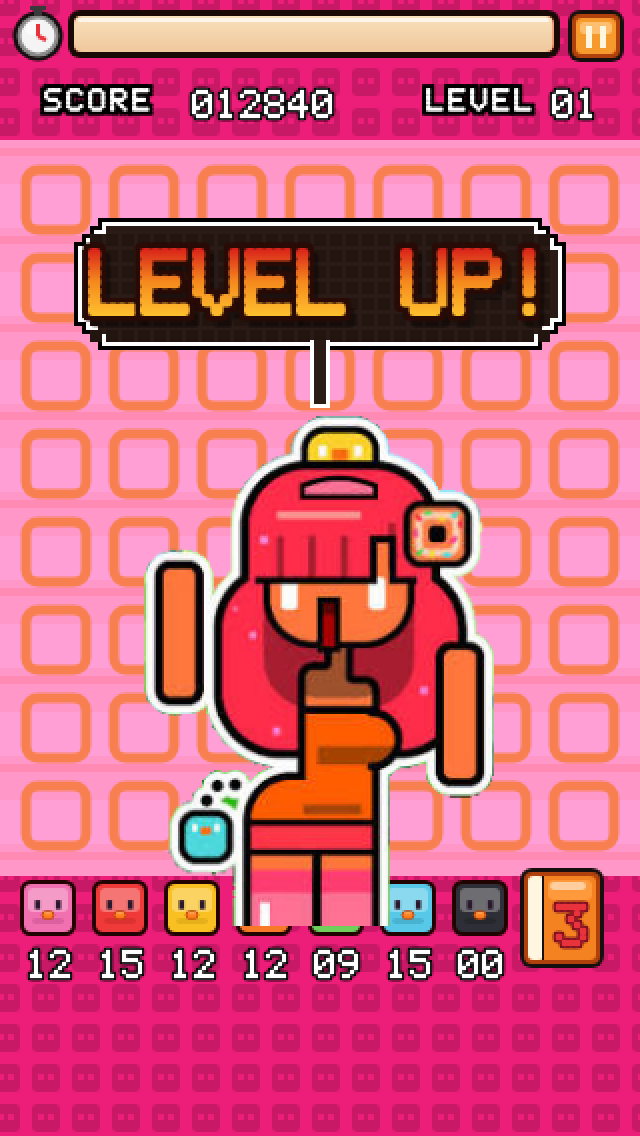
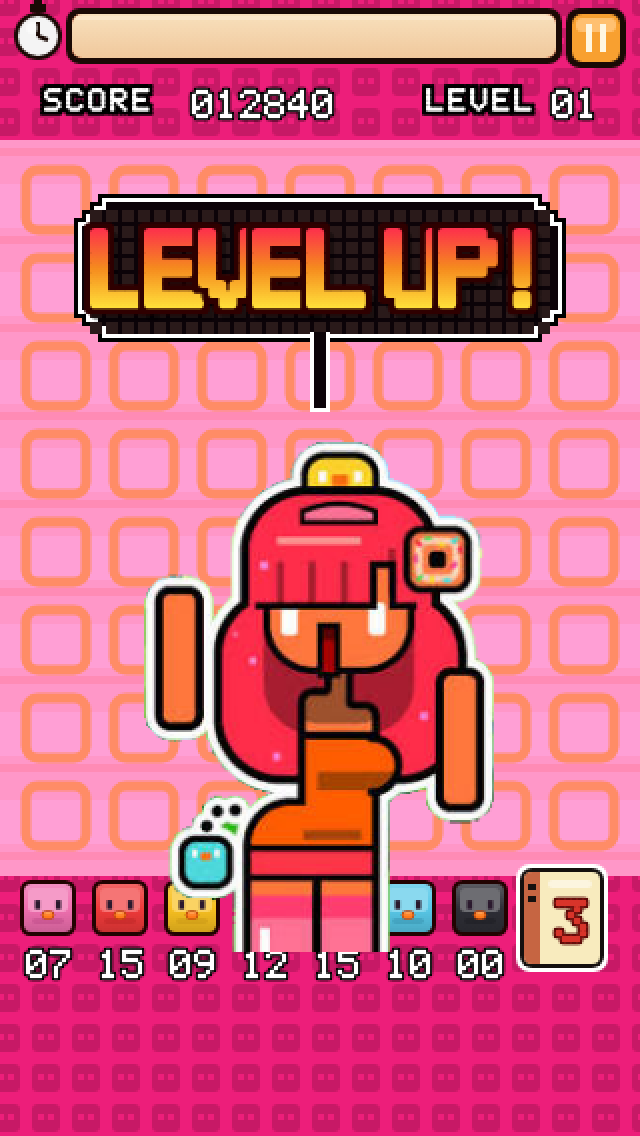
Critic round 5: book, stopwatch, timer weight, face gradients, bold LEVEL UP, disco bloom and HUD

diff --git a/index.html b/index.html
@@ -73,13 +73,15 @@ function drawTextO(s,x,y,sc,col,out,align,ol,shadow){ // outlined text (ol = out
 function goldGrad(y,h){ const g=ctx.createLinearGradient(0,y,0,y+h); g.addColorStop(0,'#ffe14d'); g.addColorStop(1,'#f7941d'); return g; }
 function splitGrad(y,h){ const g=ctx.createLinearGradient(0,y,0,y+h); g.addColorStop(0,'#FFD23A'); g.addColorStop(0.5,'#FFD23A'); g.addColorStop(0.5,'#F08A1E'); g.addColorStop(1,'#F08A1E'); return g; }
 function rrp(x,y,w,h,r){ ctx.moveTo(x+r,y); ctx.arcTo(x+w,y,x+w,y+h,r); ctx.arcTo(x+w,y+h,x,y+h,r); ctx.arcTo(x,y+h,x,y,r); ctx.arcTo(x,y,x+w,y,r); ctx.closePath(); }
-function glyphCells(ch,x,y,sc){ const g=FONT[ch]; if(!g) return; for(let r=0;r<FH;r++){ const row=g[r]; for(let c=0;c<5;c++) if(row[c]==='#') rrp(x+c*sc,y+r*sc,1.4*sc,1.4*sc,sc*0.5); } }
+let GLYPH_CELL=1.4;
+function glyphCells(ch,x,y,sc){ const g=FONT[ch]; if(!g) return; const k=GLYPH_CELL; for(let r=0;r<FH;r++){ const row=g[r]; for(let c=0;c<5;c++) if(row[c]==='#') rrp(x+c*sc,y+r*sc,k*sc,k*sc,sc*0.5); } }
 function chunkyText(str,x,y,sc,adv,align,arc,fill,opts){ // bubbly letters, each layered over the previous so they stay legible
-  opts=opts||{};
-  str=String(str).toUpperCase(); const gw=5.4*sc, gh=7.4*sc; const w=str.length*adv-(adv-gw);
+  opts=opts||{}; GLYPH_CELL=opts.bold?1.75:1.4;
+  str=String(str).toUpperCase(); const gw=(4+GLYPH_CELL)*sc, gh=(6+GLYPH_CELL)*sc; const spaces=(str.match(/ /g)||[]).length; const sp=opts.spaceAdv!==undefined?opts.spaceAdv:adv; const w=(str.length-spaces)*adv+spaces*sp-(adv-gw);
   if(align==='center') x=Math.round(x-w/2); else if(align==='right') x=Math.round(x-w);
+  const xs=[]; let cx0=x; for(let i=0;i<str.length;i++){ xs.push(cx0); cx0+=str[i]===' '?sp:adv; }
   const ob=Math.max(2,sc*0.55), ow=Math.max(1,sc*0.28);
-  for(let i=0;i<str.length;i++){ const ch=str[i]; if(ch===' ') continue; const xx=x+i*adv, yy=y-(arc?Math.sin((i+0.5)/str.length*Math.PI)*arc:0);
+  for(let i=0;i<str.length;i++){ const ch=str[i]; if(ch===' ') continue; const xx=xs[i], yy=y-(arc?Math.sin((i+0.5)/str.length*Math.PI)*arc:0);
     const ring=(off,col,dx0,dy0)=>{ ctx.fillStyle=col; ctx.beginPath(); for(let dx=-1;dx<=1;dx++)for(let dy=-1;dy<=1;dy++) glyphCells(ch,xx+dx*off+dx0,yy+dy*off+dy0,sc); ctx.fill(); };
     if(opts.shadow!==false) ring(ob*0.7,'rgba(0,0,0,0.35)',3,4);   // drop shadow
     ring(ob,opts.dark||'#2A0A00',0,0);                               // dark outline
@@ -88,6 +90,7 @@ function chunkyText(str,x,y,sc,adv,align,arc,fill,opts){ // bubbly letters, each
     ctx.fillStyle=f; ctx.beginPath(); glyphCells(ch,xx,yy,sc); ctx.fill();
     if(!opts.noGloss){ ctx.save(); ctx.beginPath(); glyphCells(ch,xx,yy,sc); ctx.clip(); ctx.fillStyle='rgba(255,255,255,0.5)'; ctx.fillRect(xx-2,yy,gw+4,sc*1.1); ctx.restore(); } // highlight line
   }
+  GLYPH_CELL=1.4;
 }
 function mixHex(a,b,t){ const pa=[1,3,5].map(i=>parseInt(a.substr(i,2),16)), pb=[1,3,5].map(i=>parseInt(b.substr(i,2),16)); return '#'+pa.map((v,i)=>Math.round(v+(pb[i]-v)*t).toString(16).padStart(2,'0')).join(''); }
 function vgrad(y,h,stops){ const g=ctx.createLinearGradient(0,y,0,y+h); stops.forEach((c,i)=>g.addColorStop(i/(stops.length-1),c)); return g; }
@@ -111,9 +114,9 @@ const TYPES=[
 ];
 const NINJA=7, NCOL=7;
 const DISCO_RING=['#FF5CD0','#FF3838','#4C3FFF','#FFA030','#5CFF5C','#48E8FF','#B060FF','#9a9aa8'];
-const DISCO_FILL=['#8A1E6E','#7A0808','#2A1AA0','#8A4012','#0E4014','#123E5A','#3A1060','#1c1c22'];
+const DISCO_FILL=['#5a1440','#4a0606','#141a5a','#3a2004','#0a3a0a','#0a3a4a','#2a0c40','#16161c'];
 function birdFace(s,expr,neon,col){
-  const k=s/40; const ink=neon?mixHex(col,'#ffffff',0.55):'#2b1a2e';
+  const k=s/40; const ink=neon?mixHex(col,'#ffffff',0.85):'#2b1a2e';
   ctx.fillStyle=ink;
   if(expr===1){ ctx.fillRect(-11*k,-3*k,6*k,2*k); ctx.fillRect(5*k,-3*k,6*k,2*k); }               // sleepy - -
   else if(expr===2){ for(const sx of [-8,8]){ ctx.fillRect((sx-3)*k,-2*k,2*k,2*k); ctx.fillRect((sx-1)*k,-4*k,2*k,2*k); ctx.fillRect((sx+1)*k,-2*k,2*k,2*k); } } // happy ^ ^
@@ -128,13 +131,14 @@ function drawBlock(cx,cy,s,t,o){
   const h=s/2, expr=o.expr||0;
   if(o.disco){
     const ring=DISCO_RING[t]||T.c, fill=DISCO_FILL[t]||'#101018';
-    ctx.shadowColor=ring; ctx.shadowBlur=12; ctx.globalAlpha=.6; frr(-h,-h,s,s,6,ring); ctx.globalAlpha=1; ctx.shadowBlur=0;
-    frr(-h,-h,s,s,6,fill);
-    ctx.lineWidth=3; ctx.strokeStyle=ring; rr(-h+1.5,-h+1.5,s-3,s-3,5); ctx.stroke();
+    ctx.shadowColor=ring; ctx.shadowBlur=10; ctx.globalAlpha=.9; frr(-h,-h,s,s,8,ring); ctx.globalAlpha=1; ctx.shadowBlur=0;
+    frr(-h,-h,s,s,8,fill);
+    ctx.lineWidth=7; ctx.strokeStyle=ring; ctx.globalAlpha=.35; rr(-h+1.5,-h+1.5,s-3,s-3,7); ctx.stroke(); ctx.globalAlpha=1;
+    ctx.lineWidth=3; ctx.strokeStyle=ring; rr(-h+1.5,-h+1.5,s-3,s-3,7); ctx.stroke();
     birdFace(s,expr,true,ring);
   } else {
     frr(-h-1,-h-1,s+2,s+2,s*0.2,'#220301'); // 2px outline
-    frr(-h+1,-h+1,s-2,s-2,s*0.14,T.c);       // body
+    frr(-h+1,-h+1,s-2,s-2,s*0.14,vgrad(-h+1,s-2,[mixHex(T.c,'#ffffff',0.22),T.c,mixHex(T.c,'#000000',0.16)])); // body gradient
     frr(-h+3,-h+3,s-6,s*0.46,s*0.1,mixHex(T.c,'#ffffff',0.3)); // lighter face band (top half)
     ctx.globalAlpha=.25; frr(-h+5,h-8,s-10,3,2,T.d); ctx.globalAlpha=1; // soft belly shade
     birdFace(s,expr,false,T.c);
@@ -263,7 +267,8 @@ function makeBg(level,disco){
     const paint=(y0,y1)=>{ c.fillStyle=base; c.fillRect(0,y0,W,y1-y0); c.save(); c.beginPath(); c.rect(0,y0,W,y1-y0); c.clip(); c.fillStyle=tile;
       for(let y=y0-6;y<y1;y+=20)for(let x=-4;x<W;x+=20){ c.beginPath(); c.roundRect?c.roundRect(x,y,14,14,3):c.rect(x,y,14,14); c.fill(); c.fillStyle=base; c.fillRect(x+3,y+5,3,3); c.fillRect(x+8,y+5,3,3); c.fillStyle=tile; } c.restore(); };
     paint(0,BY-8); paint(BY+ROWS*CELL+8,H);
-  } else { c.fillStyle='#0E0A10'; c.beginPath(); c.roundRect?c.roundRect(BX-3,BY-3,COLS*CELL+4,ROWS*CELL+4,7):c.rect(BX-3,BY-3,COLS*CELL+4,ROWS*CELL+4); c.fill(); }
+  } else { const g=c.createLinearGradient(0,0,0,BY-8); g.addColorStop(0,'#0a2870'); g.addColorStop(1,'#052050'); c.fillStyle=g; c.fillRect(0,0,W,BY-8); c.fillStyle='#4bebe3'; c.fillRect(0,BY-10,W,2);
+    c.fillStyle='#0E0A10'; c.beginPath(); c.roundRect?c.roundRect(BX-3,BY-3,COLS*CELL+4,ROWS*CELL+4,7):c.rect(BX-3,BY-3,COLS*CELL+4,ROWS*CELL+4); c.fill(); c.lineWidth=2; c.strokeStyle='#2c2c58'; c.stroke(); }
   return o;
 }
 function cloudPath(x,y,w){ ctx.beginPath(); ctx.arc(x,y,w*0.26,0,Math.PI*2); ctx.arc(x+w*0.3,y-w*0.14,w*0.34,0,Math.PI*2); ctx.arc(x+w*0.64,y-w*0.02,w*0.27,0,Math.PI*2); ctx.rect(x-w*0.05,y,w*0.75,w*0.26); }
@@ -584,7 +589,7 @@ function glossyPanel(x,y,w,h,r,rim,body,top){ // chunky rounded panel: black out
 function cube(x,y,w,h){ // PB2 cube button: 3px outline, hard top band, bottom shade
   frr(x-2,y+5,w+4,h+2,12,'rgba(0,0,0,0.28)');
   frr(x-3,y-3,w+6,h+6,12,'#2A1408');
-  frr(x,y,w,h,9,'#F58A1E');
+  frr(x,y,w,h,9,vgrad(y,h,['#ffb060','#f07a1c']));
   ctx.save(); rr(x,y,w,h,9); ctx.clip(); ctx.fillStyle='#FFB050'; ctx.fillRect(x,y,w,h*0.22); ctx.fillStyle='#C85A10'; ctx.fillRect(x,y+h*0.9,w,h*0.1); ctx.restore();
   ctx.globalAlpha=.4; frr(x+8,y+5,w-16,4,2,'#fff'); ctx.globalAlpha=1;
 }
@@ -600,7 +605,7 @@ function squareBtn(b){
     const gh=7.4*b.gsc, gy=b.y+(b.h-gh)/2+1;
     chunkyText(b.glyph,cx,gy,b.gsc,6*b.gsc+6,'center',0,vgrad(gy,gh,['#FF8A2A','#FF8A2A','#F05A14','#F05A14']),{dark:'#1A0A05'});
   }
-  chunkyText(b.label,cx,b.y+b.h+9,1.6,11,'center',0,vgrad(b.y+b.h+9,12,['#E8452A','#C8321A']),{dark:'#1A0A05',noGloss:true,shadow:false});
+  chunkyText(b.label,cx,b.y+b.h+5,1.6,11,'center',0,vgrad(b.y+b.h+5,12,['#E8452A','#C8321A']),{dark:'#1A0A05',noGloss:true,shadow:false});
 }
 function drawHook(x,y,w,h){ frr(x,y,w,h,3,'#7a4a08'); frr(x+2,y+2,w-4,h-4,2,'#f7c236'); frr(x+3,y+3,w-6,3,1,'#ffe69a'); }
 let titleToast=0;
@@ -654,28 +659,32 @@ function renderOptions(){
   drawText('PIYO BLOCKS 3 - NUS VERSION',160,H-40,1,'#fff6e0','center');
   drawText('ORIGINAL BY BIG PIXEL STUDIOS',160,H-28,1,'#fff6e0','center');
 }
-function drawBook(x,y,n){ // orange book, cream page edge, red glyph
-  frr(x-2,y-2,42,50,6,'#15100f'); frr(x,y,38,46,4,'#b0400c'); frr(x+2,y+2,34,42,3,'#f58220'); frr(x+2,y+2,8,42,3,'#fff6e0'); ctx.fillStyle='#15100f'; ctx.fillRect(x+9,y+2,1,42); frr(x+12,y+4,22,10,3,'#ff9a3c');
-  ctx.globalAlpha=.5; frr(x+13,y+5,18,4,2,'#fff'); ctx.globalAlpha=1;
-  drawTextO(n,x+23,y+16,3,'#e8323c','#7a1020','center',1);
+function drawBook(x,y,n){ // cream page body, orange-brown spine with clasps, red numeral, black outline + white rim
+  frr(x-4,y-4,46,54,7,'#FFFFFF'); frr(x-2,y-2,42,50,6,'#15100f');
+  frr(x,y,38,46,4,'#f8ebbe'); frr(x,y,8,46,4,'#c66542'); ctx.fillStyle='#c66542'; ctx.fillRect(x+4,y,4,46);
+  ctx.fillStyle='#15100f'; ctx.fillRect(x+2,y+6,4,3); ctx.fillRect(x+2,y+12,4,3);
+  ctx.globalAlpha=.5; frr(x+12,y+4,22,4,2,'#fff'); ctx.globalAlpha=1;
+  drawTextO(n,x+23,y+14,3,'#d8342a','#5a0a08','center',1);
 }
 function renderGame(){
   const disco=isDisco();
   ctx.drawImage(bg,0,0);
   let sx=0,sy=0; if(shakeT>0){sx=(Math.random()-0.5)*6; sy=(Math.random()-0.5)*6;}
   ctx.save(); ctx.translate(sx,sy);
-  // clock: white face, dark outline, red hand
-  ctx.beginPath(); ctx.arc(19,18,12.5,0,Math.PI*2); ctx.fillStyle='#15100f'; ctx.fill(); ctx.beginPath(); ctx.arc(19,18,10.5,0,Math.PI*2); ctx.fillStyle='#8a8a8a'; ctx.fill(); ctx.beginPath(); ctx.arc(19,18,8.5,0,Math.PI*2); ctx.fillStyle='#F4F4F4'; ctx.fill(); ctx.globalAlpha=.6; ctx.beginPath(); ctx.arc(16,14,3.5,0,Math.PI*2); ctx.fillStyle='#fff'; ctx.fill(); ctx.globalAlpha=1;
-  ctx.strokeStyle='#e8323c'; ctx.lineWidth=2; ctx.beginPath(); ctx.moveTo(19,18); ctx.lineTo(19,12); ctx.moveTo(19,18); ctx.lineTo(23,20); ctx.stroke(); ctx.fillStyle='#3A3A3A'; ctx.fillRect(17,4,4,4); ctx.fillRect(15,3,8,2);
-  // timer bar
-  frr(34,5,246,24,6,'#1A0A05'); frr(37,8,240,18,4,disco?'#1a1a2e':'#E8552F');
+  // stopwatch: 24px, black outline, dark hands, button on top
+  ctx.fillStyle='#1A0A05'; ctx.fillRect(15,2,8,4); ctx.fillRect(17,0,4,3);
+  ctx.beginPath(); ctx.arc(19,18,12,0,Math.PI*2); ctx.fillStyle='#1A0A05'; ctx.fill(); ctx.beginPath(); ctx.arc(19,18,10,0,Math.PI*2); ctx.fillStyle=disco?'#f2a134':'#F4F4F4'; ctx.fill();
+  ctx.strokeStyle='#1A0A05'; ctx.lineWidth=2; ctx.beginPath(); ctx.moveTo(19,18); ctx.lineTo(19,11); ctx.moveTo(19,18); ctx.lineTo(24,20); ctx.stroke(); ctx.globalAlpha=.5; ctx.beginPath(); ctx.arc(16,14,3,0,Math.PI*2); ctx.fillStyle='#fff'; ctx.fill(); ctx.globalAlpha=1;
+  // timer bar: 22px tall, 3px outline, cream fill over red-orange drained part, highlight line across
+  frr(33,4,248,28,7,'#1A0A05'); frr(36,7,242,22,5,disco?'#0a1240':'#E8552F');
   let frac=1; if(mode.id==='three') frac=moveTime/3; else if(mode.id==='endless') frac=1; else frac=time/maxTime;
   frac=Math.max(0,Math.min(1,frac));
-  let barCol=disco?'#94FEF0':vgrad(8,18,['#F8E0BC','#F0C89C']); if(mode.id!=='endless'&&frac<0.25&&Math.floor(appT*6)%2===0) barCol='#ffd23a';
-  if(mode.id==='endless'){ const g=ctx.createLinearGradient(38,0,276,0); ['#ff62ad','#ffd23f','#63d63c','#4cc3ff'].forEach((c,i)=>g.addColorStop(i/3,c)); barCol=g; }
-  if(frac>0){ const bw=Math.max(8,240*frac); frr(37,8,bw,18,4,barCol); ctx.globalAlpha=.7; frr(39,9,Math.max(2,bw-4),2,1,'#fff'); ctx.globalAlpha=1; }
-  // pause: square orange button
-  frr(284,5,28,26,6,'#15100f'); frr(286,7,24,22,4,'#b0400c'); frr(288,9,20,18,3,'#f79a2e'); frr(290,11,16,6,2,'#ffbf70'); ctx.fillStyle='#fff6e0'; ctx.fillRect(293,13,3,11); ctx.fillRect(300,13,3,11);
+  let barCol=disco?'#4bebe3':vgrad(7,22,['#F8E0BC','#F0C89C']); if(mode.id!=='endless'&&frac<0.25&&Math.floor(appT*6)%2===0) barCol='#ffd23a';
+  if(mode.id==='endless'){ const g=ctx.createLinearGradient(36,0,278,0); ['#ff62ad','#ffd23f','#63d63c','#4cc3ff'].forEach((c,i)=>g.addColorStop(i/3,c)); barCol=g; }
+  if(frac>0){ const bw=Math.max(8,242*frac); if(disco){ ctx.shadowColor='#4bebe3'; ctx.shadowBlur=8; } frr(36,7,bw,22,5,barCol); ctx.shadowBlur=0; frr(38,8,Math.max(2,bw-4),2,1,disco?'#b0fff8':'#fbe6c8'); }
+  ctx.globalAlpha=.5; frr(38,8,238,2,1,'#fbe6c8'); ctx.globalAlpha=1;
+  // pause: 24x24, 3px outline, 3px white bars
+  frr(283,4,30,30,7,'#1A0A05'); frr(286,7,24,24,5,'#F8A030'); frr(288,9,20,7,3,'#ffc070'); ctx.fillStyle='#fff6e0'; ctx.fillRect(293,12,3,14); ctx.fillRect(300,12,3,14);
   chunkyText('SCORE',22,44,1.6,11,'left',0,'#FFFFFF',{noWhite:true,dark:'#000000',noGloss:true,shadow:false}); drawTextO(pad(score,6),96,45,2,'#FFFFFF','#000000','left',1);
   drawTextO(pad(level,2),298,45,2,'#FFFFFF','#000000','right',1); chunkyText('LEVEL',266,44,1.6,11,'right',0,'#FFFFFF',{noWhite:true,dark:'#000000',noGloss:true,shadow:false});
   // board
@@ -716,13 +725,13 @@ function renderGame(){
   if(phase==='levelup'){
     const p=Math.max(0,Math.min(1,(2.4-luT)/0.3));
     // cleared-board rings in every cell
-    ctx.lineWidth=5; ctx.strokeStyle='#F88050'; for(let r=0;r<ROWS;r++)for(let c=0;c<COLS;c++){ rr(BX+c*CELL+7,BY+r*CELL+7,30,30,6); ctx.stroke(); }
-    const yb=112+(1-p)*-60;
-    stairRect(37,yb-3,246,66,4,'#000000'); stairRect(39,yb-1,242,62,4,'#FFFFFF'); stairRect(41,yb+1,238,58,4,'#2A1B17');
-    ctx.fillStyle='#221510'; for(let gy=yb+5;gy<yb+55;gy+=8)for(let gx=45;gx<275;gx+=8) ctx.fillRect(gx,gy,6,6);
-    frr(155,yb+58,10,34,0,'#FFFFFF'); frr(157,yb+58,6,32,0,'#2A1B17');   // pixel stalk down to the crown
-    chunkyText('LEVEL UP!',160,yb+12,4.6,26,'center',0,vgrad(yb+12,34,['#D8201A','#F58A1E','#FFC02E']),{noWhite:true,dark:'#2A0A05',noGloss:true});
-    drawGirl(72,214,1.75,Math.abs(Math.sin(appT*8))*-8);
+    ctx.lineWidth=5; ctx.strokeStyle='#ff8c66'; for(let r=0;r<ROWS;r++)for(let c=0;c<COLS;c++){ rr(BX+c*CELL+7,BY+r*CELL+7,30,30,6); ctx.stroke(); }
+    const yb=100+(1-p)*-60;
+    stairRect(37,yb-3,246,74,4,'#000000'); stairRect(39,yb-1,242,70,4,'#FFFFFF'); stairRect(41,yb+1,238,66,4,'#0c0308');
+    ctx.fillStyle='#2a1a1a'; for(let gy=yb+5;gy<yb+63;gy+=8)for(let gx=45;gx<275;gx+=8) ctx.fillRect(gx,gy,6,6);
+    frr(155,yb+66,10,40,0,'#FFFFFF'); frr(157,yb+66,6,38,0,'#0c0308');   // pixel stalk down to the crown
+    chunkyText('LEVEL UP!',160,yb+14,5.2,27,'center',0,vgrad(yb+14,40,['#fd2e4c','#F58A1E','#ffe03a']),{noWhite:true,dark:'#2f0000',noGloss:true,bold:true,spaceAdv:12});
+    drawGirl(72,226,1.75,Math.abs(Math.sin(appT*8))*-8);
   }
   if(phase==='paused'){
     ctx.fillStyle='rgba(20,10,30,0.75)'; ctx.fillRect(0,0,W,H);
